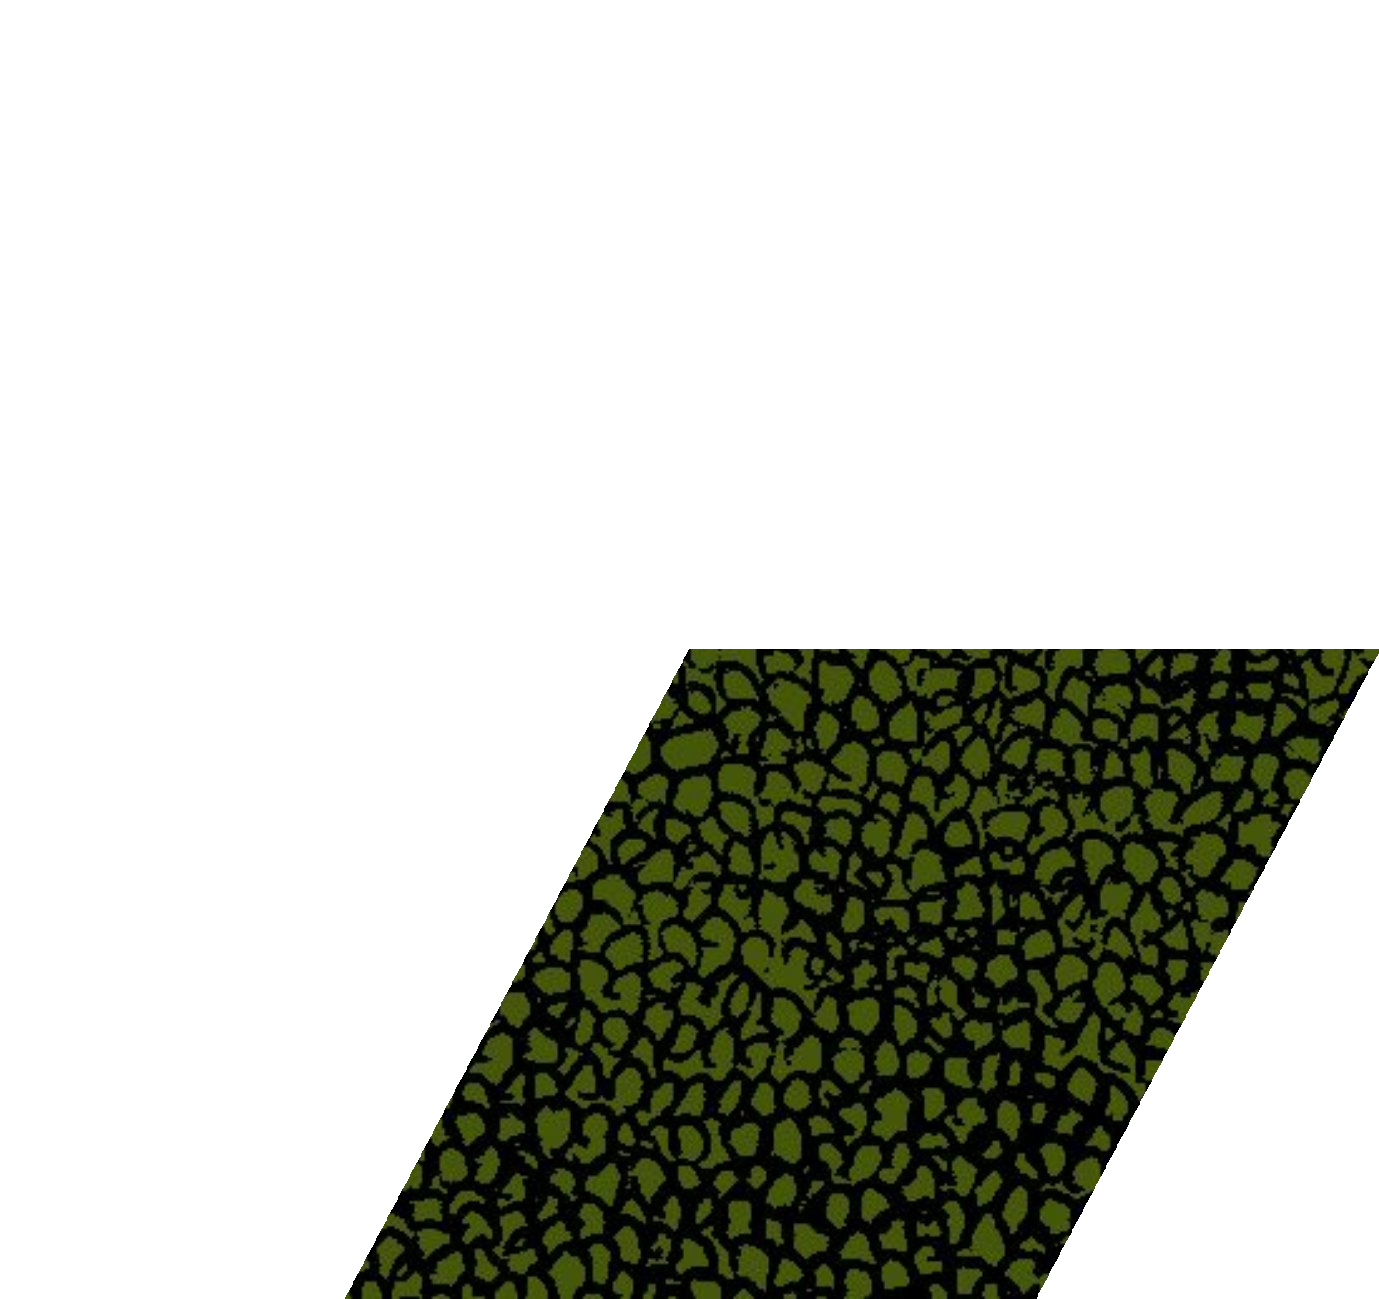
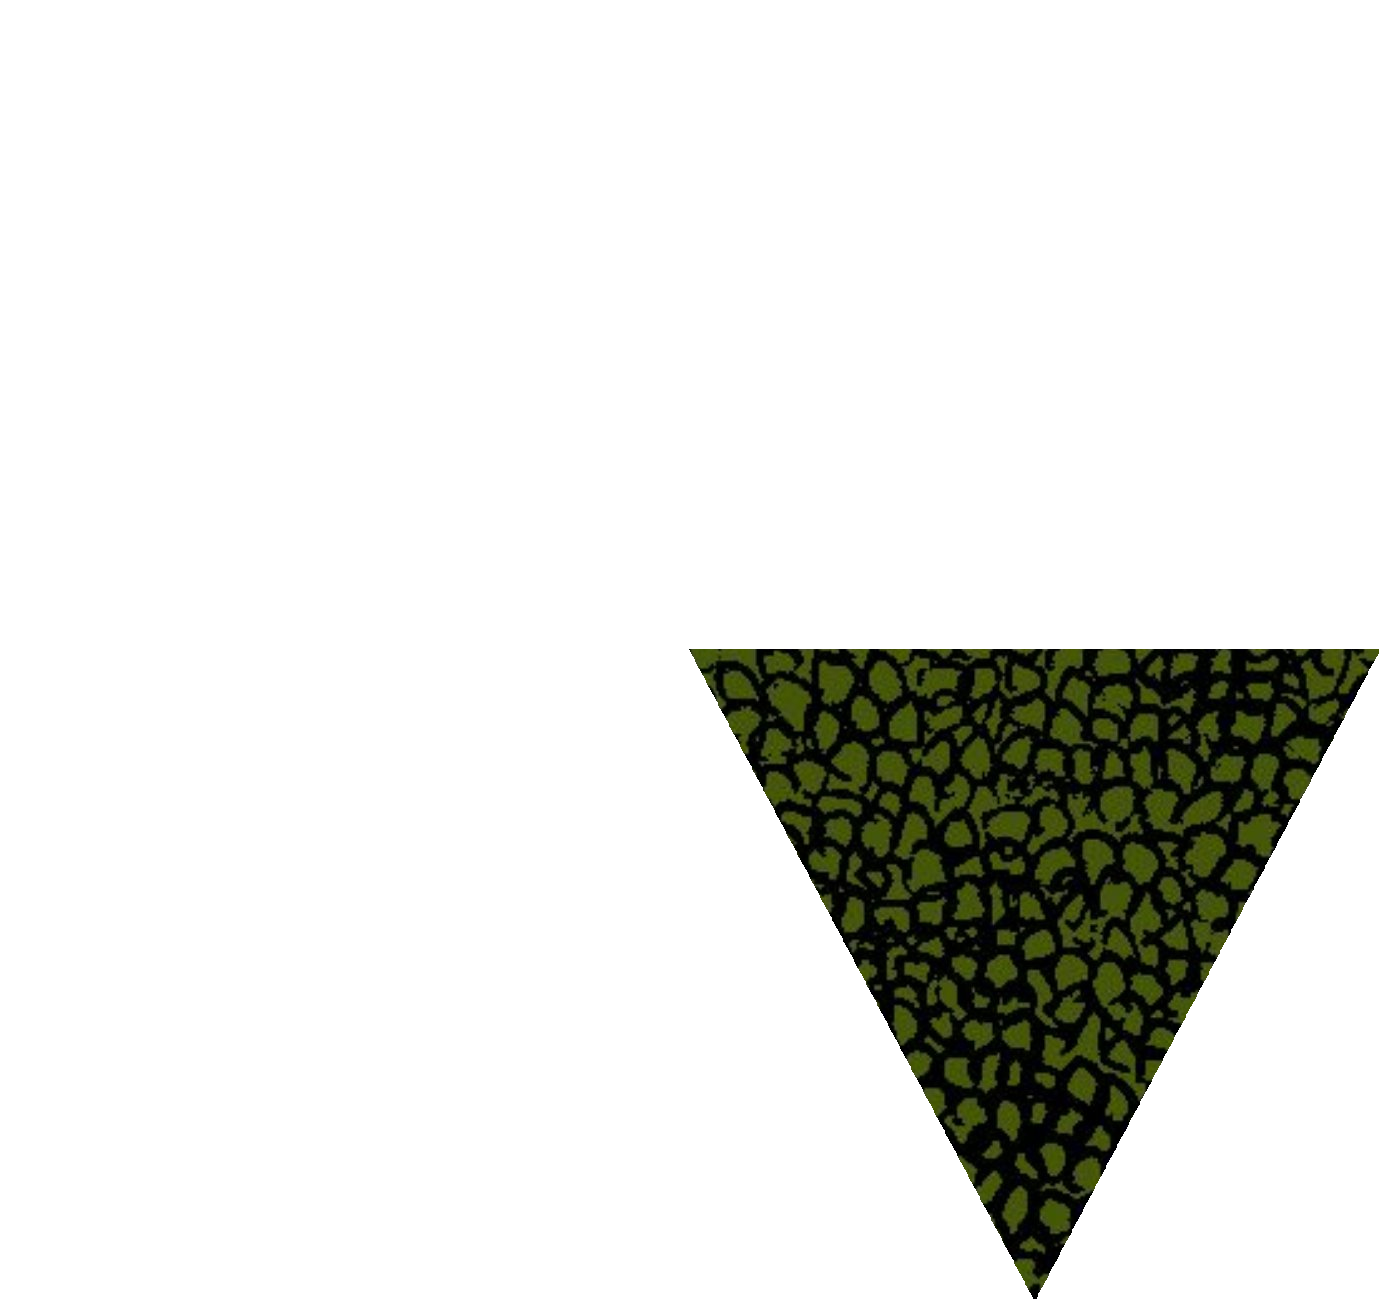
Added grey line and saveAll

Changed region(s): [[0.2495, 0.4927, 0.7484, 1.0]]

diff --git a/database/seeds/seed_tiles.php b/database/seeds/seed_tiles.php
@@ -16,7 +16,95 @@ class seed_tiles extends Seeder
         $t = new Tile();
         $t->background_type = "grass";
         $t->overlay_type = "forest";
+        $t->duration = 1;
+        $t->save();
+
+        $t = new Tile();
+        $t->background_type = "grass";
+        $t->overlay_type = "forest";
+        $t->duration = 2;
+        $t->save();
+        
+        $t = new Tile();
+        $t->background_type = "grass";
+        $t->overlay_type = "forest";
         $t->duration = 3;
         $t->save();
+        
+        $t = new Tile();
+        $t->background_type = "grass";
+        $t->overlay_type = "forest";
+        $t->duration = 4;
+        $t->save();
+        
+        $t = new Tile();
+        $t->background_type = "grass";
+        $t->overlay_type = "forest";
+        $t->duration = 5;
+        $t->save();
+        
+        
+
+        $t = new Tile();
+        $t->background_type = "grass";
+        $t->overlay_type = "water";
+        $t->duration = 1;
+        $t->save();
+
+        $t = new Tile();
+        $t->background_type = "grass";
+        $t->overlay_type = "water";
+        $t->duration = 2;
+        $t->save();
+        
+        $t = new Tile();
+        $t->background_type = "grass";
+        $t->overlay_type = "water";
+        $t->duration = 3;
+        $t->save();
+        
+        $t = new Tile();
+        $t->background_type = "grass";
+        $t->overlay_type = "water";
+        $t->duration = 4;
+        $t->save();
+        
+        $t = new Tile();
+        $t->background_type = "grass";
+        $t->overlay_type = "water";
+        $t->duration = 5;
+        $t->save();
+        
+
+        
+        $t = new Tile();
+        $t->background_type = "forest";
+        $t->overlay_type = "water";
+        $t->duration = 1;
+        $t->save();
+
+        $t = new Tile();
+        $t->background_type = "forest";
+        $t->overlay_type = "water";
+        $t->duration = 2;
+        $t->save();
+        
+        $t = new Tile();
+        $t->background_type = "forest";
+        $t->overlay_type = "water";
+        $t->duration = 3;
+        $t->save();
+        
+        $t = new Tile();
+        $t->background_type = "forest";
+        $t->overlay_type = "water";
+        $t->duration = 4;
+        $t->save();
+        
+        $t = new Tile();
+        $t->background_type = "forest";
+        $t->overlay_type = "water";
+        $t->duration = 5;
+        $t->save();        
     }
 }

diff --git a/routes/web.php b/routes/web.php
@@ -16,8 +16,8 @@ Route::get('/', function () {
 });
 
 Route::get('/test', function () {
-    $t = \App\Tile::first();    
-    imagepng($t->saveImage(), "/home/anders/Code/hex/public/img/" . $t->name() . ".png");
+    $tile = \App\Tile::first();    
+    imagepng($tile->image(), "/home/anders/Code/hex/public/img/" . $t->name() . ".png");
 });
 
 
@@ -30,7 +30,8 @@ Route::get('/saveHexagonMask', function () {
 });
 
 Route::get('/saveSegmentMask', function () {
-    (new \App\Hexagon)->saveSegmentMask();
+    $tile = \App\Tile::first();
+    (new \App\Hexagon)->saveSegmentMask($tile);
 });
 
 Route::get('overlay', function () {
@@ -57,3 +58,31 @@ Route::get('overlay', function () {
     imagepng($result, "/home/anders/Code/hex/public/img/myFirst.png");
 
 });
+
+Route::get('/saveAll', function () {
+    $tiles = \App\Tile::all();
+    $tiles->each(function($tile) {
+        $background = imagecreatefromjpeg( '/home/anders/Code/hex/public/img/terrain/' . $tile->background_type . '.jpg' );
+        $hexagonMask = imagecreatefrompng( '/home/anders/Code/hex/public/img/hexagonMask.png' );
+        $background = \App\Tile::imagealphamask( $background, $hexagonMask, $background );
+
+        $source = imagecreatefromjpeg( '/home/anders/Code/hex/public/img/terrain/' . $tile->overlay_type .'.jpg' );
+        (new \App\Hexagon)->saveSegmentMask($tile);
+        $segmentMask = imagecreatefrompng( '/home/anders/Code/hex/public/img/segmentMask.png' );
+        $overlay = \App\Tile::imagealphamask( $source, $segmentMask, $source );
+
+        imagepng($background, "/home/anders/Code/hex/public/img/layer1.png");
+        imagepng($overlay, "/home/anders/Code/hex/public/img/layer2.png");
+    
+        $result = $background;
+    
+        imagecopy($result, $background,0,0,0,0,$tile->image_x_resolution, $tile->image_y_resolution);
+        imagecopy($result, $overlay,0,0,0,0,$tile->image_x_resolution, $tile->image_y_resolution);
+        imagepng($result, "/home/anders/Code/hex/public/img/output/".  rand(1,1000) ."png");        
+    });
+
+    
+
+
+});
+

diff --git a/app/Tile.php b/app/Tile.php
@@ -15,7 +15,7 @@ class Tile extends Model
         $this->hexagon = new Hexagon();
     }
 
-    public function saveImage() {
+    public function image() {
         // create image
         $image = imagecreatetruecolor($this->image_x_resolution, $this->image_y_resolution);
 
@@ -100,6 +100,34 @@ class Tile extends Model
     
     public function getBaseImage() {
         return imagecreatetruecolor($this->image_x_resolution, $this->image_y_resolution);
+    }
+
+    public static function saveAll() {
+        $tiles = \App\Tile::where("id", "<", 2)->get();
+        $tiles->each(function($tile) {
+            $background = imagecreatefromjpeg( '/home/anders/Code/hex/public/img/terrain/' . $tile->background_type . '.jpg' );
+            $hexagonMask = imagecreatefrompng( '/home/anders/Code/hex/public/img/hexagonMask.png' );
+            $background = \App\Tile::imagealphamask( $background, $hexagonMask, $background );
+    
+            $source = imagecreatefromjpeg( '/home/anders/Code/hex/public/img/terrain/' . $tile->overlay_type .'.jpg' );
+            (new \App\Hexagon)->saveSegmentMask($tile);
+            $segmentMask = imagecreatefrompng( '/home/anders/Code/hex/public/img/segmentMask.png' );
+            $overlay = \App\Tile::imagealphamask( $source, $segmentMask, $source );
+    
+            imagepng($background, "/home/anders/Code/hex/public/img/layer1.png");
+            imagepng($overlay, "/home/anders/Code/hex/public/img/layer2.png");
+        
+            $result = $background;
+        
+            imagecopy($result, $background,0,0,0,0,$tile->image_x_resolution, $tile->image_y_resolution);
+            imagecopy($result, $overlay,0,0,0,0,$tile->image_x_resolution, $tile->image_y_resolution);
+
+            imagesetthickness($result, 20);
+            imageline($result, 1500, 0.5*1500*sqrt(3)/2, 700, 0.5*1500*sqrt(3)/2, imagecolorallocate($result, 92,64,51));
+
+
+            imagepng($result, "/home/anders/Code/hex/public/img/output/".  rand(1,1000) .".png");        
+        });        
     }
 
         

diff --git a/app/Hexagon.php b/app/Hexagon.php
@@ -39,15 +39,21 @@ class Hexagon {
         return $coordinates->toArray();
     }
 
-    public function segment() {
+    public function segment($duration) {
         $startX = 0.5;
         $startY = 0;
         $overlay_values = collect([
-            $startX,  $startY,  // Point 1 (x, y)
-            $startX * cos(1*pi()/3) - $startY*sin(1*pi()/3),  $startY*cos(1*pi()/3)+$startX*sin(1*pi()/3), // Point 2 (x, y)
-            $startX * cos(2*pi()/3) - $startY*sin(2*pi()/3),  $startY*cos(2*pi()/3)+$startX*sin(2*pi()/3),  // Point 3 (x, y)
-            0, 0
-        ]);        
+            $startX,  $startY,
+            //$startX * cos(1*pi()/3) - $startY*sin(1*pi()/3),  $startY*cos(1*pi()/3)+$startX*sin(1*pi()/3),
+        ]);
+        
+        for($i = 1; $i <= $duration; $i++) {
+             $overlay_values->push($startX * cos($i*pi()/3) - $startY*sin($i*pi()/3));
+             $overlay_values->push($startY*cos($i*pi()/3)+$startX*sin($i*pi()/3));
+        }
+        $overlay_values->push(0);
+        $overlay_values->push(0);
+
         $overlay_values = $overlay_values->map(function($value, $key) {
             if($key % 2 == 0) {
                 return ($value + 0.5)*$this->image_x_resolution;
@@ -74,7 +80,7 @@ class Hexagon {
         return "OK";       
     }
 
-    public function saveSegmentMask() {
+    public function saveSegmentMask($t) {
         // create image
         $image = imagecreatetruecolor($this->image_x_resolution, $this->image_y_resolution);
 
@@ -85,7 +91,7 @@ class Hexagon {
 
         // transparency, background and overlay
         imagefilledrectangle($image, 0, 0, $this->image_x_resolution - 1, $this->image_y_resolution -1, $bgColor);
-        imagefilledpolygon($image, $this->segment(), sizeof($this->segment())/2, $maskColor);
+        imagefilledpolygon($image, $this->segment($t->duration), sizeof($this->segment($t->duration))/2, $maskColor);
         imagepng($image, "/home/anders/Code/hex/public/img/segmentMask.png");
         return "OK";        
     }
